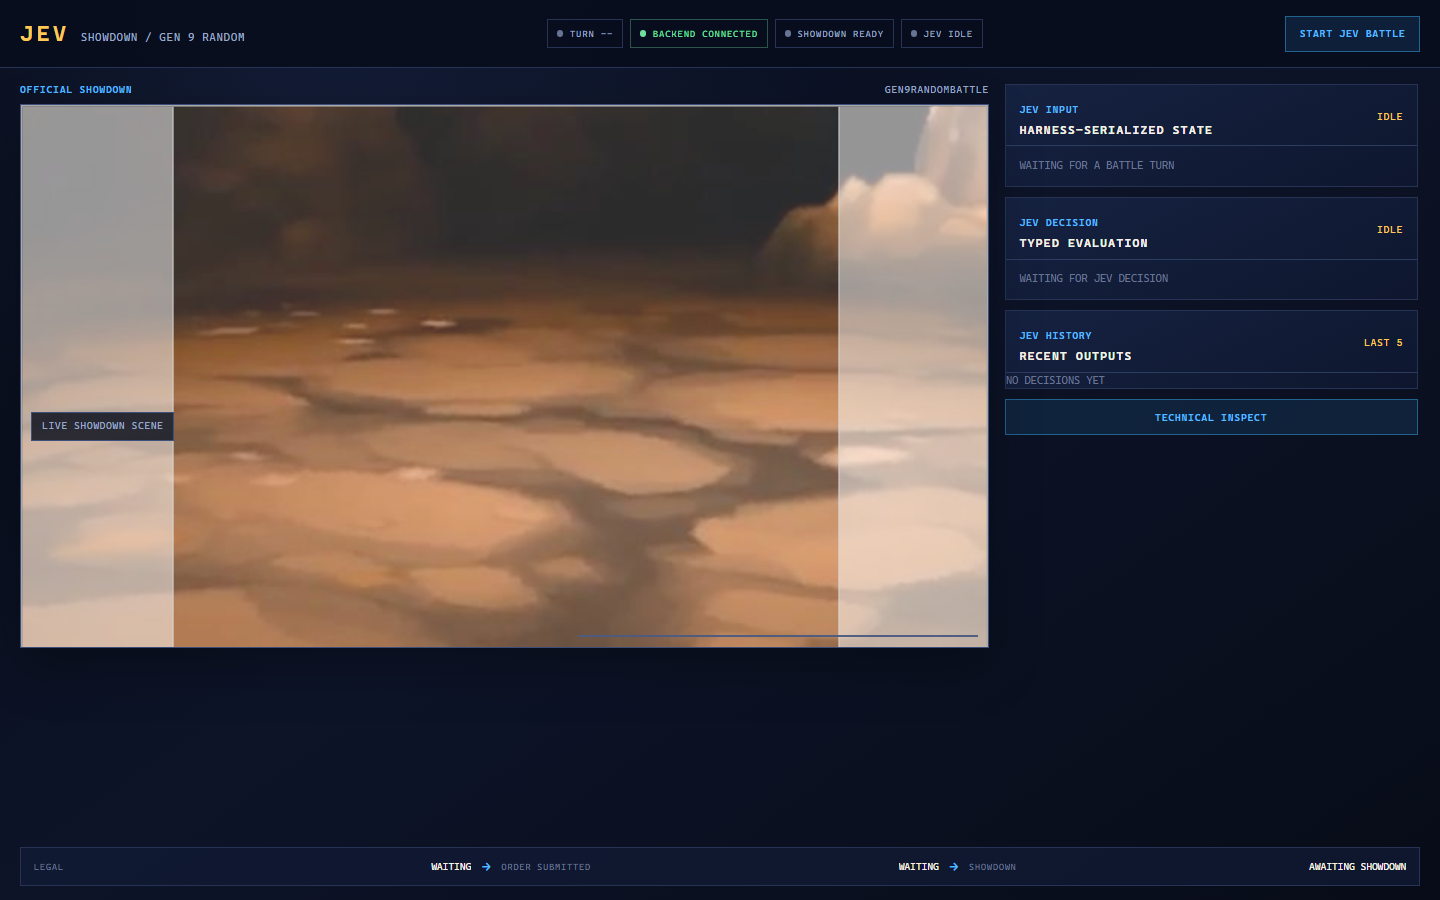
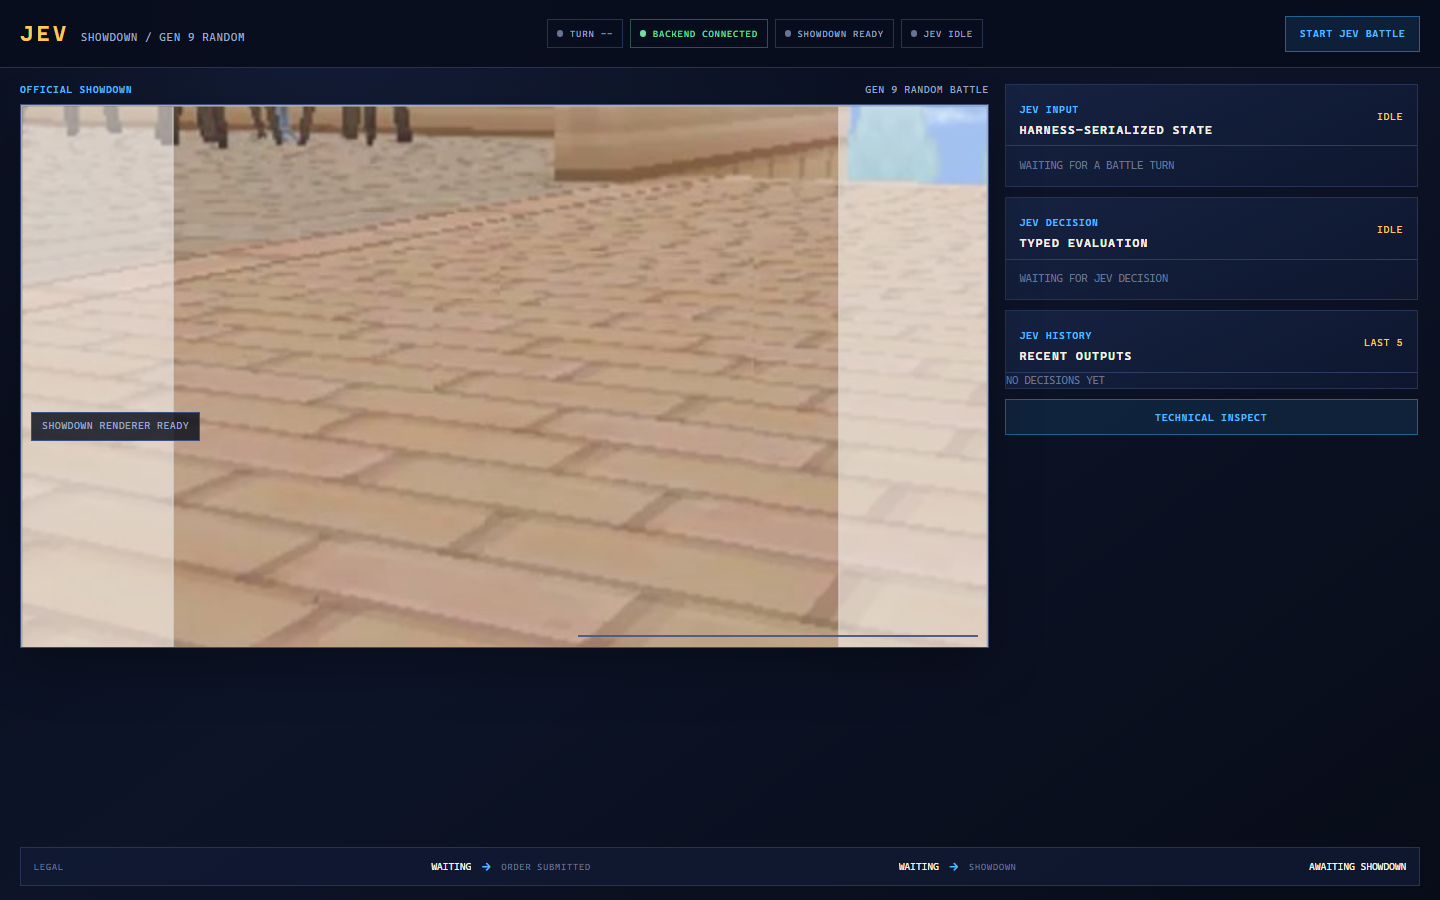
fix: keep idle renderer status truthful

diff --git a/src/jev_showdown/web/static/showdown-renderer.js b/src/jev_showdown/web/static/showdown-renderer.js
@@ -38,6 +38,7 @@
   let battleTag = "jev-showdown";
   let pendingLines = [];
   let battleEnded = false;
+  let hasProtocol = false;
 
   function setStatus(text) {
     if (statusElement) statusElement.textContent = text;
@@ -143,9 +144,11 @@
 
   function addLines(lines) {
     if (!battle || !Array.isArray(lines)) return;
+    let added = false;
     for (const rawLine of lines) {
       const line = normalizeLine(rawLine);
       if (!line) continue;
+      added = true;
       try {
         battle.add(line);
       } catch (error) {
@@ -153,7 +156,9 @@
         console.error("[jev-dashboard] Showdown renderer rejected protocol line", error);
       }
     }
+    if (!added) return;
     try { battle.play(); } catch (error) { console.error(error); }
+    if (!battleEnded) setStatus("LIVE SHOWDOWN SCENE - RAW PROTOCOL CONNECTED");
   }
 
   function mount(nextFrame, nextLog, nextStatus) {
@@ -174,7 +179,7 @@
         id: battleTag,
         subscription: function (event) {
           if (event === "ended") setStatus("SHOWDOWN BATTLE ENDED — FINAL SCENE PRESERVED");
-          else if (!battleEnded && (event === "playing" || event === "turn")) setStatus("LIVE SHOWDOWN SCENE");
+          else if (!battleEnded && hasProtocol && (event === "playing" || event === "turn")) setStatus("LIVE SHOWDOWN SCENE");
         },
       });
       resizeObserver = new ResizeObserver(resizeStage);
@@ -182,7 +187,7 @@
       resizeStage();
       const arena = frameElement.closest ? frameElement.closest("#showdown-arena") : null;
       if (arena) arena.hidden = false;
-      setStatus(battleEnded ? "SHOWDOWN BATTLE ENDED — FINAL SCENE PRESERVED" : "LIVE SHOWDOWN SCENE — RAW PROTOCOL CONNECTED");
+      setStatus(battleEnded ? "SHOWDOWN BATTLE ENDED - FINAL SCENE PRESERVED" : "SHOWDOWN RENDERER READY");
       const queued = pendingLines;
       pendingLines = [];
       addLines(queued);
@@ -198,6 +203,7 @@
   function reset(nextBattleTag) {
     battleTag = nextBattleTag || "jev-showdown";
     battleEnded = false;
+    hasProtocol = false;
     pendingLines = [];
     destroyBattle();
     setStatus("WAITING FOR SHOWDOWN BATTLE PROTOCOL…");
@@ -207,6 +213,7 @@
     if (!Array.isArray(lines)) return 0;
     const normalized = lines.map(normalizeLine).filter(Boolean);
     if (!normalized.length) return 0;
+    hasProtocol = true;
     if (!battle) pendingLines = pendingLines.concat(normalized);
     else addLines(normalized);
     return normalized.length;

diff --git a/tests/unit/test_frontend_assets.py b/tests/unit/test_frontend_assets.py
@@ -96,4 +96,5 @@ def test_showdown_renderer_owns_scene_and_protocol_log_nodes_only():
 
     assert "window.JevShowdownRenderer" in renderer
     assert "battle.add" in renderer
+    assert "SHOWDOWN RENDERER READY" in renderer
     assert "window.JevDashboard" not in renderer
